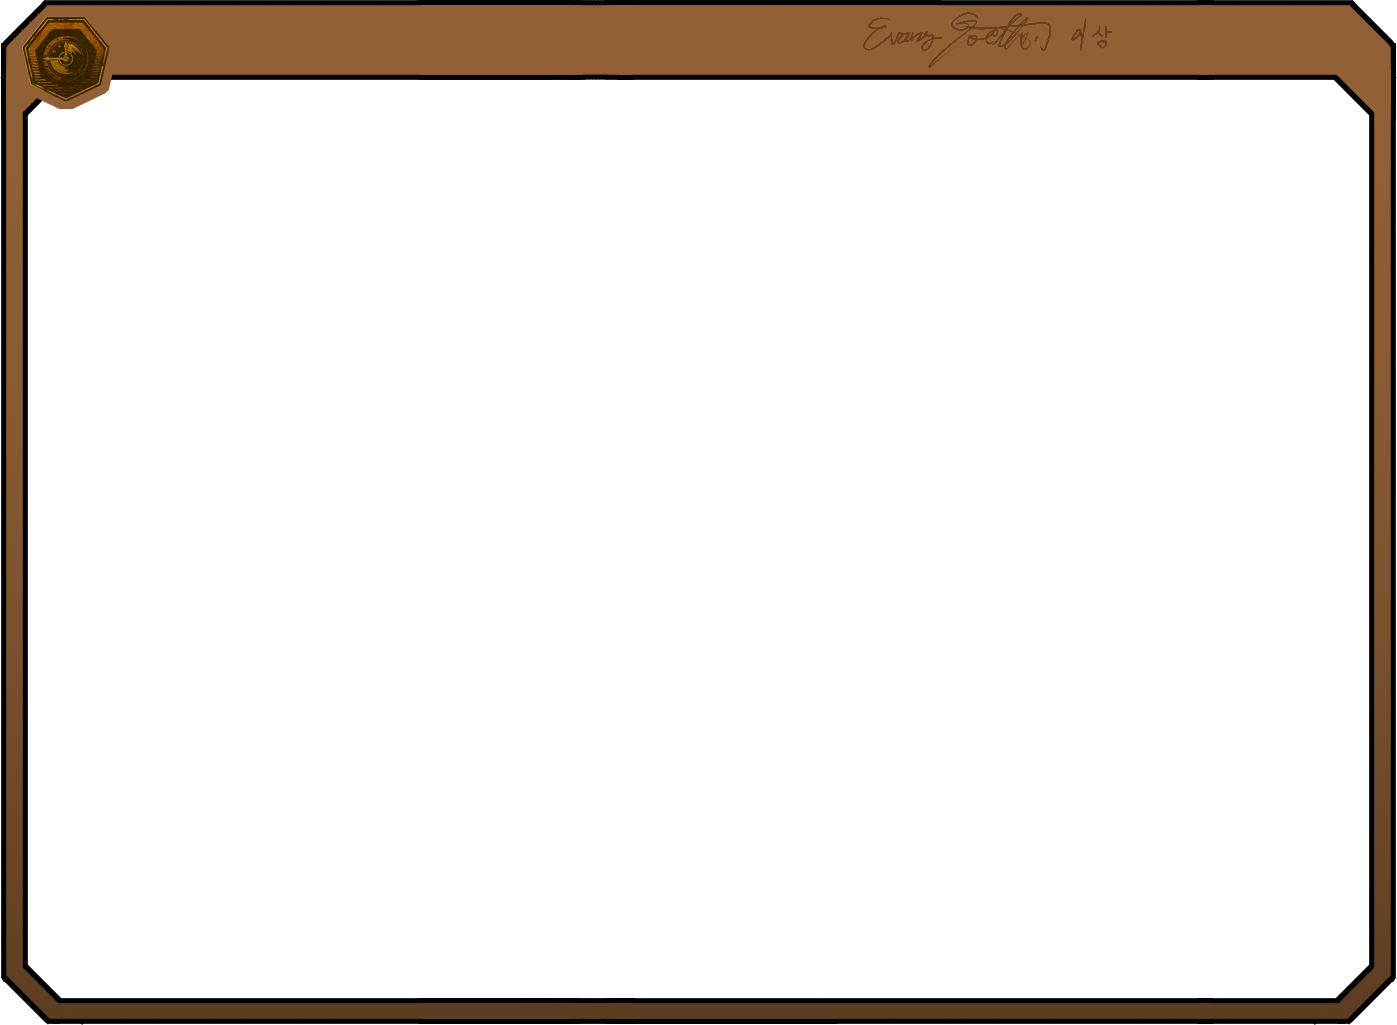
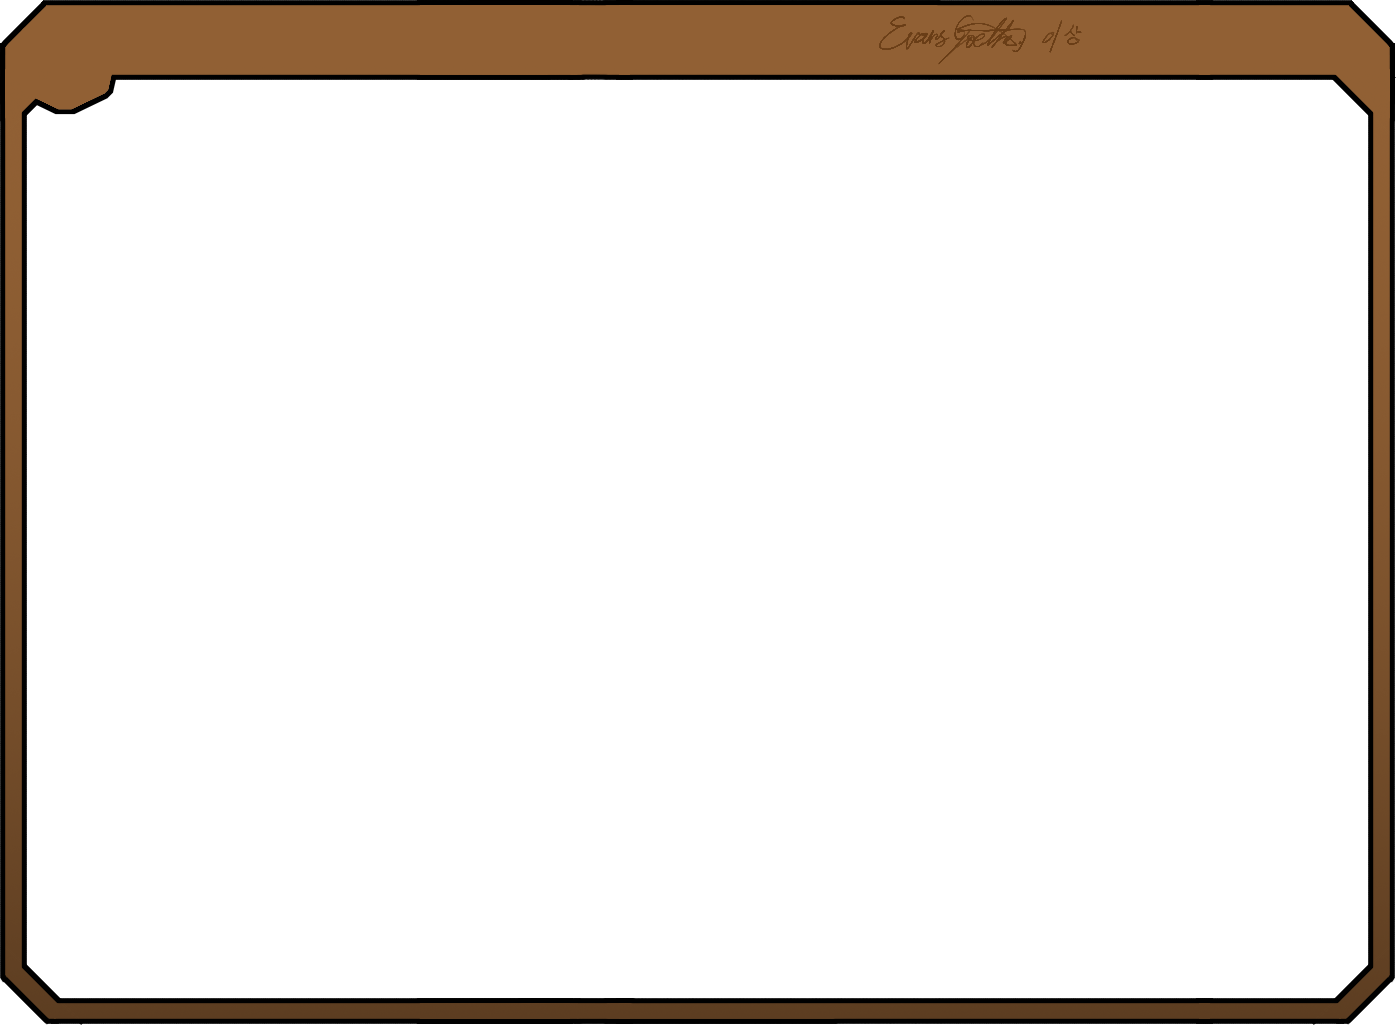
feat: add donate button and update outerframe image

diff --git a/MAD.py b/MAD.py
@@ -247,7 +247,7 @@ class MainWindow(QMainWindow):
         self.outer_frame = factory.create_image_label(
             self,
             QtCore.QRect(0, 0, 990, 700),
-            base / "OuterFrame3.png",
+            base / "OuterFrame1.png",
         )
         self.log_frame = factory.create_image_label(
             self,
